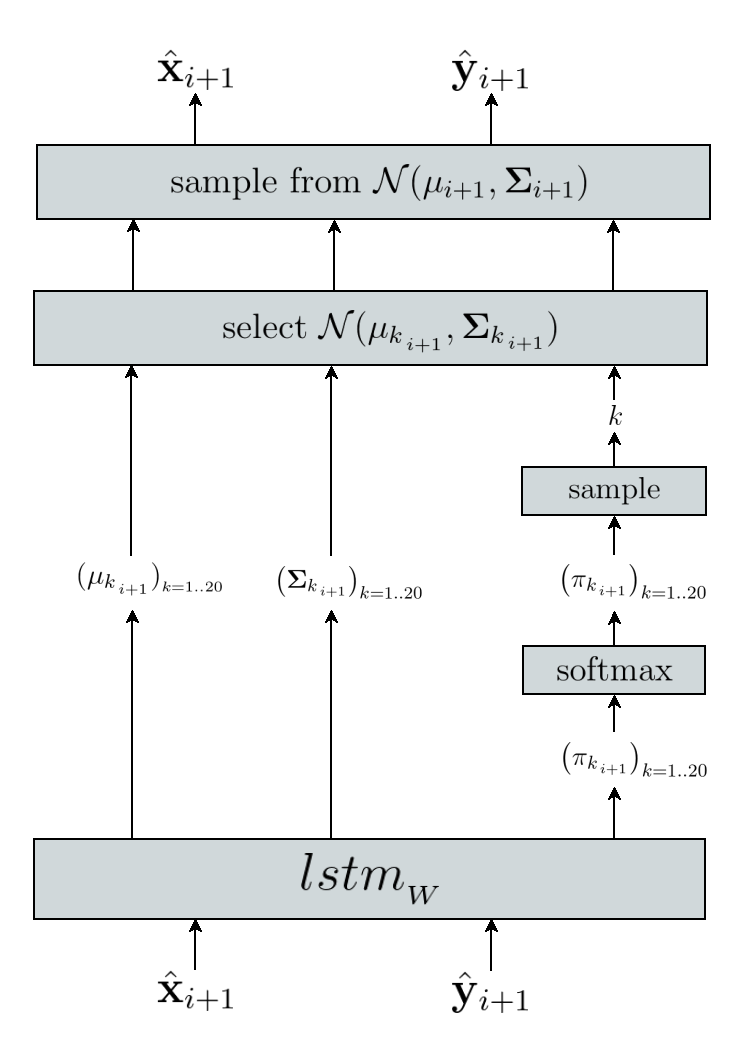
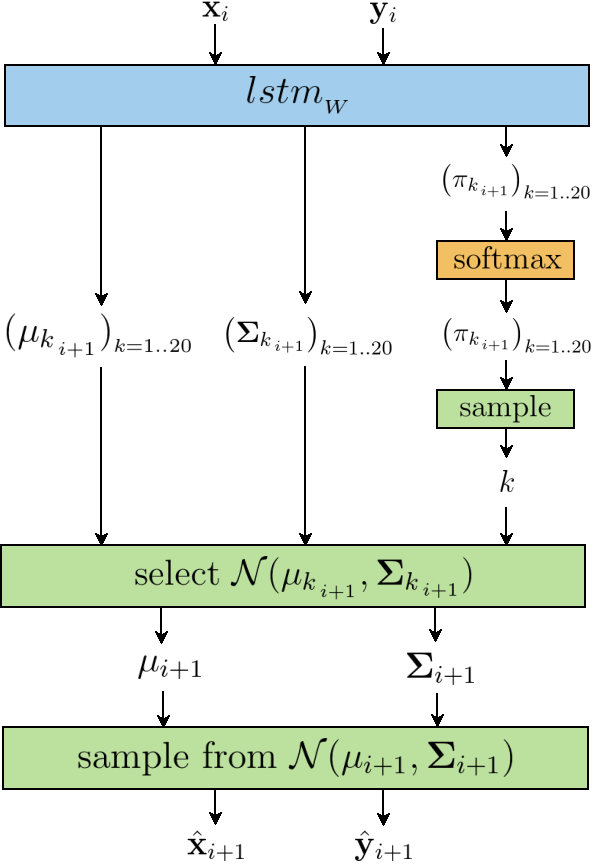
flip MDN diagrams upside-down
color diagrams
resize temperature plots titles

diff --git a/_drafts/neural-net-drawings.md b/_drafts/neural-net-drawings.md
@@ -642,7 +642,7 @@ as such:
 * Draw "end of drawing" event $\hat{\mathcal{Y}}\_i = \begin{bmatrix} 0,0,1 \end{bmatrix}$ with probability $\tilde{\mathbf{p\_{3}}\_{i+1}}$
 
 <p style="text-align: center">
-    <img src="/images/mdn_stroke_state.png" width="30%" />
+    <img src="/images/mdn_stroke_state.png" width="25%" />
 </p>
 
 For normalization, we're going to use the softmax function for
@@ -756,7 +756,7 @@ You may recognize these symbols. They are the parameters of a
    independent normal distributions along x and y.
 
 <p style="text-align: center">
-    <img src="/images/normals.png" />
+    <img src="/images/normals.png" width="80%" />
 </p>
 
 We can make sure that $\mathbf{\sigma_x}$ and $\mathbf{\sigma_y}$ are
